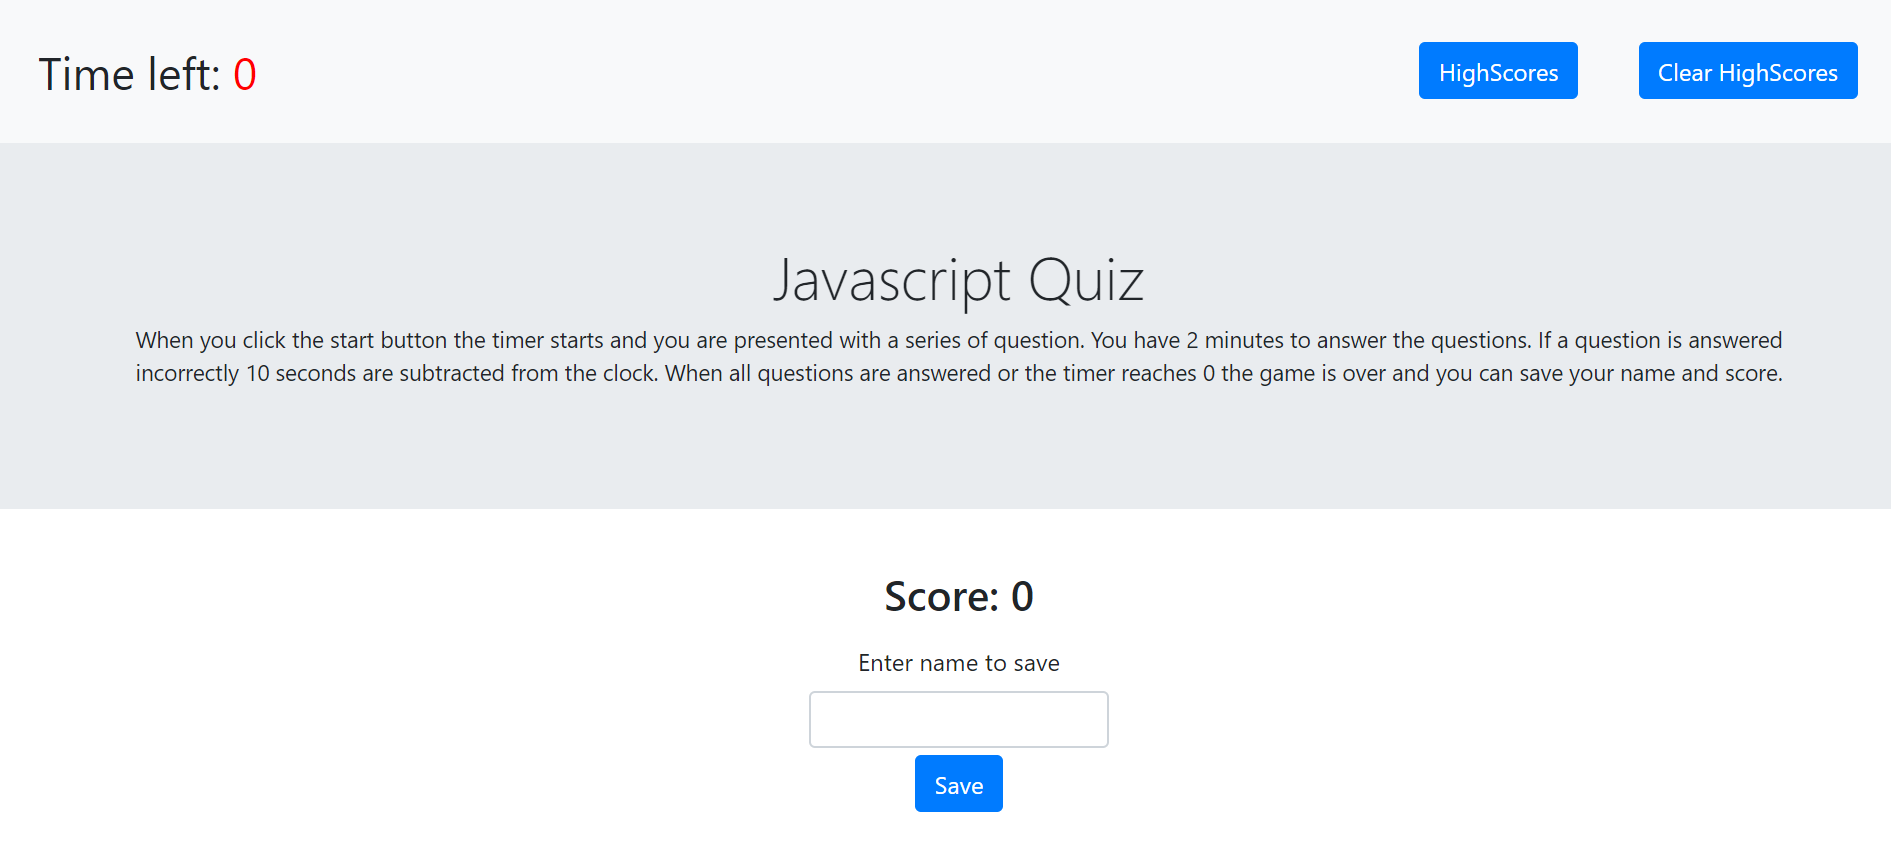
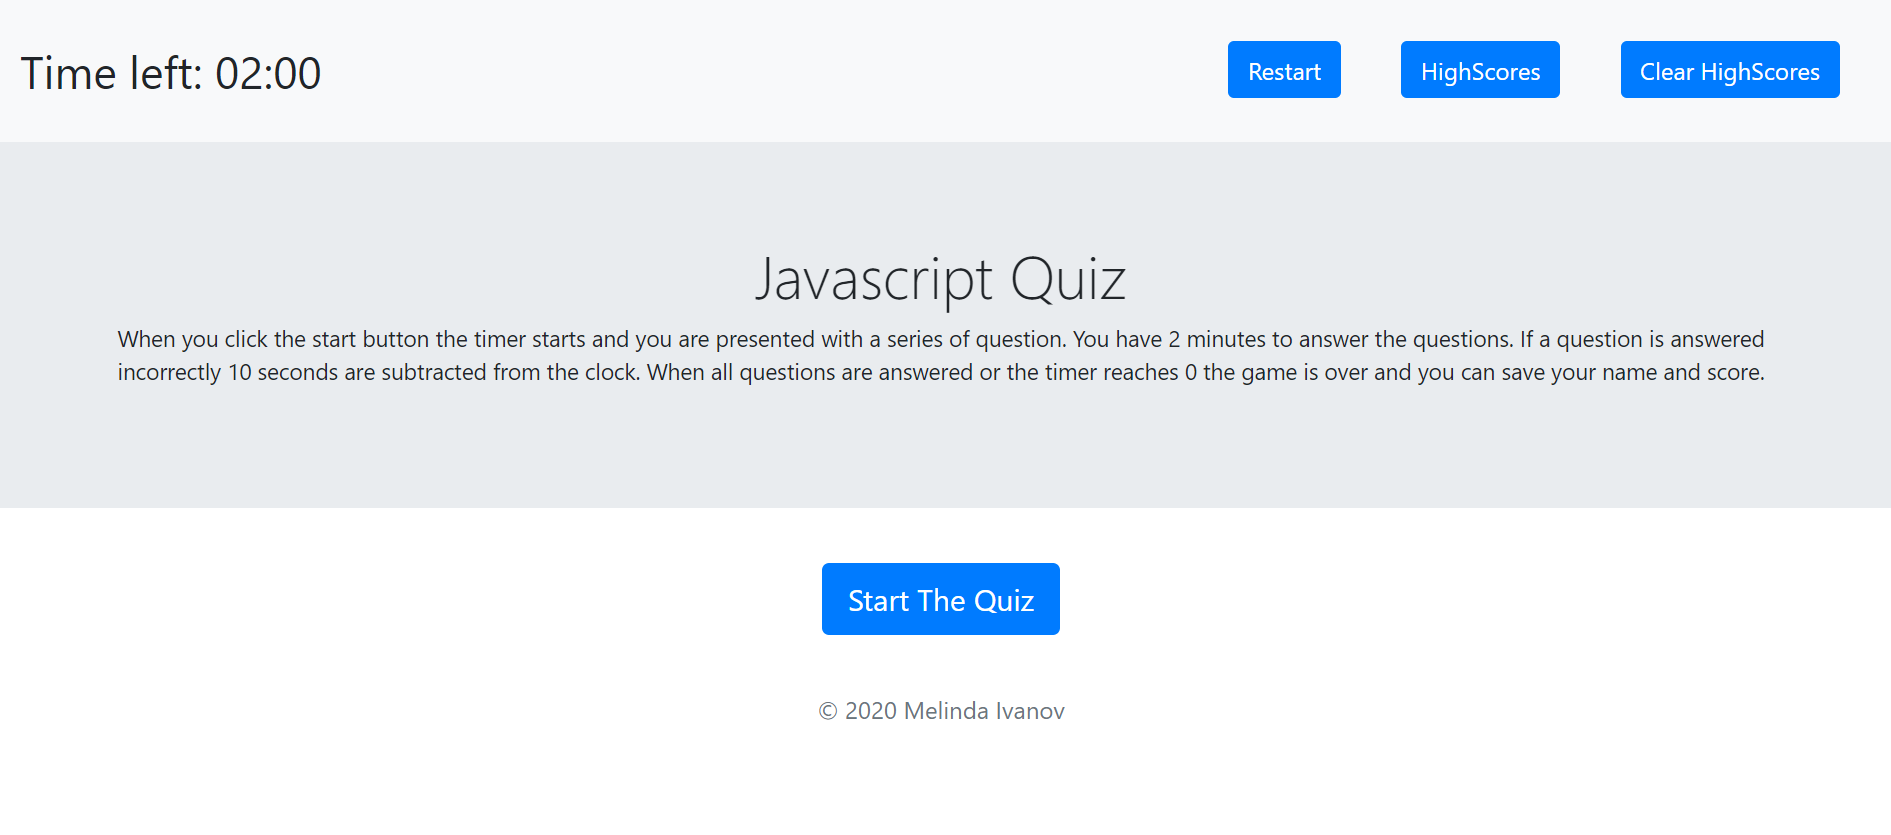
update readme

diff --git a/README.md b/README.md
@@ -2,11 +2,15 @@
 
 This application prepares you for JavaScript interviews. When you click the start button the timer starts and you are presented with a series of question. You have 2 minutes to answer the questions. If a question is answered incorrectly 10 seconds are subtracted from the clock. When you have less than 10 seconds the clock changes to red. When all questions are answered or the timer reaches 0 the game is over, your score is presented and you can save your name and score. You can check the scores by clicking on HighScores and you can clear them by clicking Clear HighScores.
 
+start page demo:
+![Demo image](./assets/images/start.png)
+
 quiz demo:
 ![Demo image](./assets/images/quiz.png)
 
-input demo:
-![Demo image](./assets/images/start.png)
+save demo:
+![Demo image](./assets/images/save.png)
+
 
 
 **Author:** Melinda Ivanov
@@ -33,11 +37,14 @@ input demo:
 - dinamically generating buttons
 - tracking and displayin score
 - saving score to localstorage
-- displaying highScores table
+- displaying sorted highScores table
 - adding game description
 - adding questions
 - formatting time
 - adding footer
+- shuffle the order of the questions
+- adding restart game button
+- adding eslint and fixing linting issues
 - refactoring and cleanup
 - readme
 
